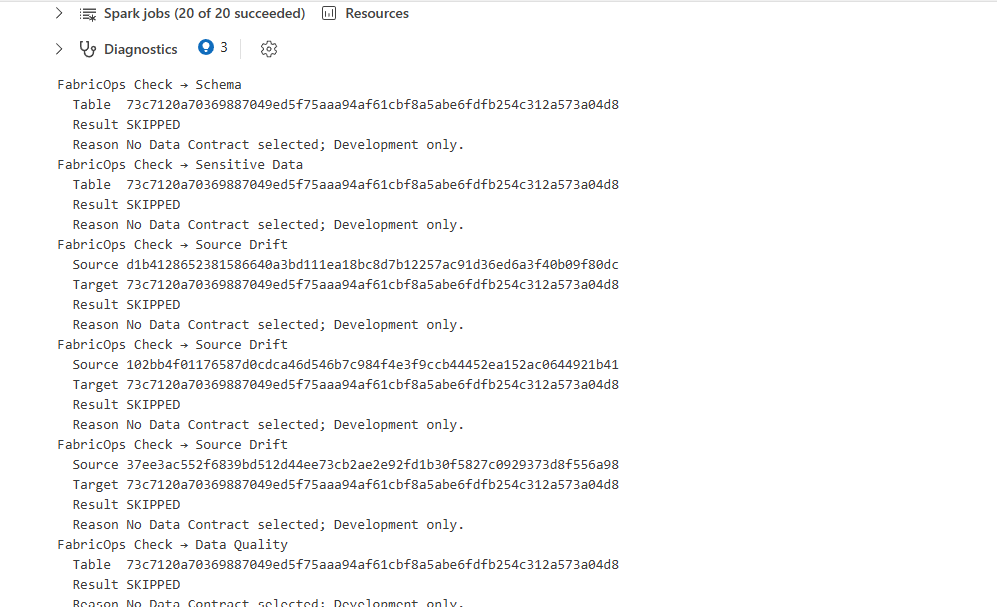
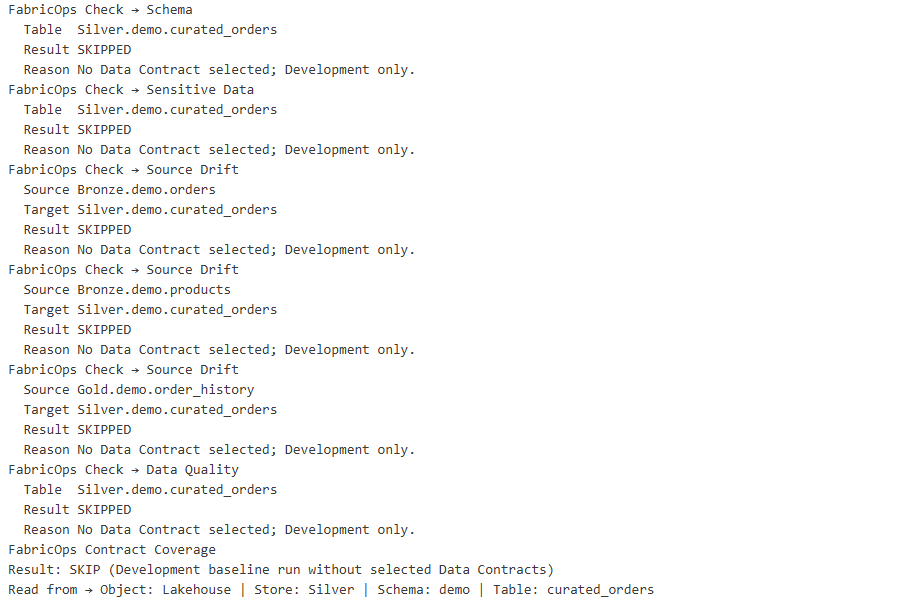
demo

Changed region(s): [[0.0, 0.0, 0.7023, 1.0]]

diff --git a/docs/guided-demo/02-run-pipeline.md b/docs/guided-demo/02-run-pipeline.md
@@ -166,6 +166,18 @@ profile_result = profile_table(
 # display(profile_result["frequency_profile"])
 ```
 
+!!! tip "Profiling"
+
+FabricOps always profiles the complete table.
+
+For a full source read or full overwrite, the complete dataset is already available as a Spark DataFrame, so FabricOps profiles it directly with PySpark.
+
+For partial reads or writes such as `append`, `SCD1`, or `SCD2`, the available Spark DataFrame contains only the changed or incoming data. FabricOps therefore reads the complete persisted table again before profiling it.
+
+For Lakehouse tables, FabricOps profiles the complete table with PySpark. 
+
+For Warehouse tables, FabricOps uses Warehouse SQL pushdown to profile the complete persisted table efficiently.
+
 #### Read 5. KEEP — make the source available downstream
 - `sources[READ_NAME] = source` adds the completed source flow to the `sources` dictionary.
 - The Transform and Write sections can then reuse both its DataFrame and `table_id`.
@@ -301,13 +313,29 @@ write_profile = profile_table(
     spark_session=spark,
 )
 
-display(write_profile["profile"])
-display(write_profile["frequency_profile"])
+#display(write_profile["profile"])
+#display(write_profile["frequency_profile"])
 ```
+
+!!! tip "Profiling"
+
+FabricOps always profiles the complete table.
+
+For a full source read or full overwrite, the complete dataset is already available as a Spark DataFrame, so FabricOps profiles it directly with PySpark.
+
+For partial reads or writes such as `append`, `SCD1`, or `SCD2`, the available Spark DataFrame contains only the changed or incoming data. FabricOps therefore reads the complete persisted table again before profiling it.
+
+For Lakehouse tables, FabricOps profiles the complete table with PySpark. 
+
+For Warehouse tables, FabricOps uses Warehouse SQL pushdown to profile the complete persisted table efficiently.
+
 
 #### Write 6. KEEP — retain the completed write result
 - `writes[WRITE_NAME] = write_result` stores the completed publication result for later notebook use.
 - It is kept after publication and profiling succeed so the `writes` dictionary represents completed target flows.
 
+#### Output of a complete write block
+![Write 1 block output](../assets/02/Write_Block_Output.png)
+![Write 2 block output](../assets/02/Write_Block_Output_2.png)
 
 **Next:** [Step 3. Author and freeze the Data Contract](03-enrich-guardrails.md)
